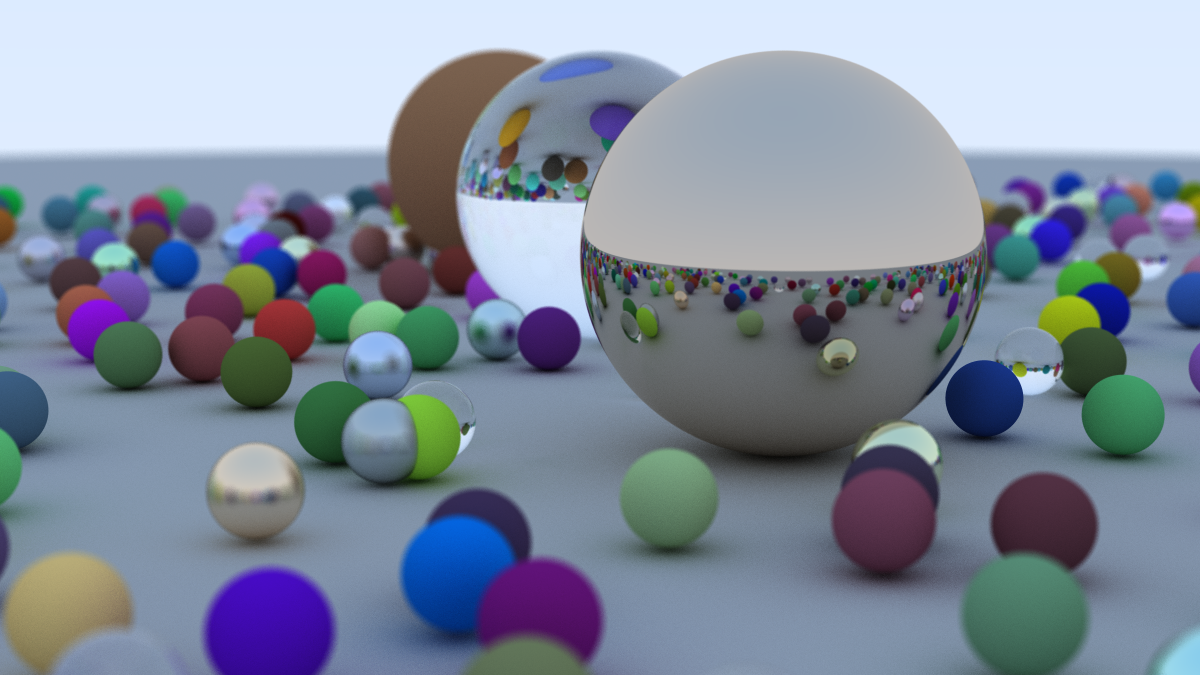
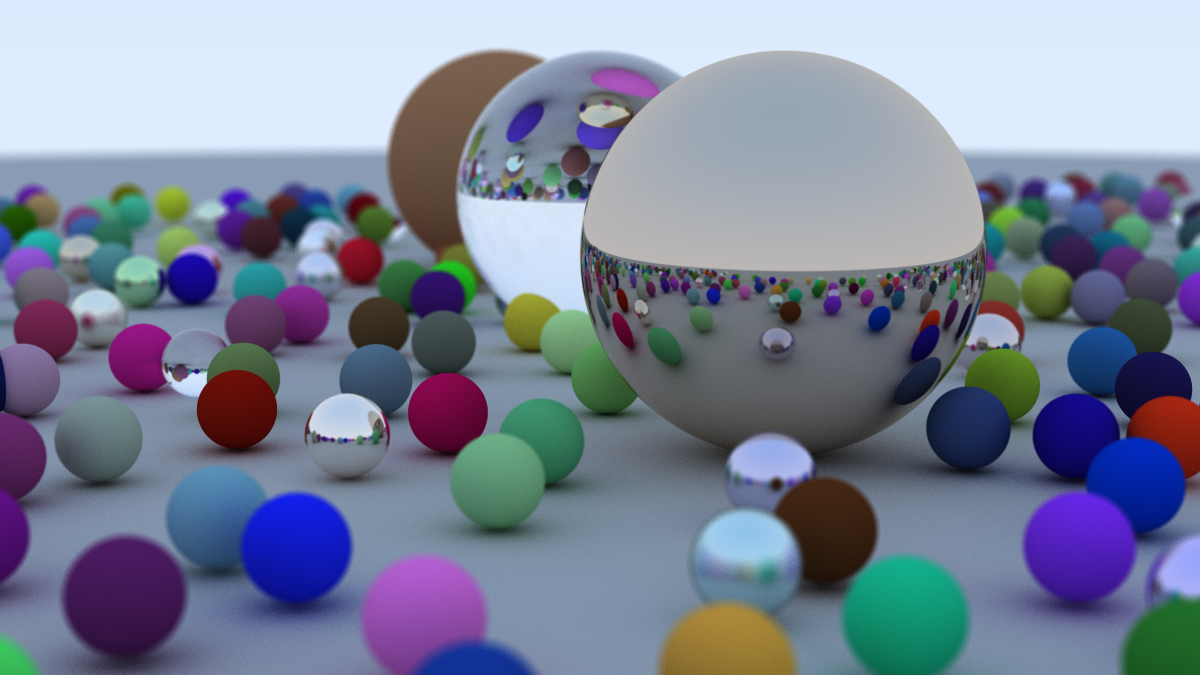
MapReduce

diff --git a/include/camera.hpp b/include/camera.hpp
@@ -2,6 +2,8 @@
 #define CAMERA_HPP
 
 #include <filesystem>
+#include <ranges>
+#include <thread>
 
 #include <fmt/format.h>
 #include <impl/cimg.hpp>
@@ -10,6 +12,7 @@
 
 #include <color.hpp>
 #include <hittable.hpp>
+#include <map_reduce.hpp>
 #include <material.hpp>
 #include <sphere.hpp>
 
@@ -68,16 +71,20 @@ class Camera {
 };
 
 void Camera::render(const CHittable auto &world) {
+    const auto numOfPixels = m_image.width() * m_image.height();
+    const auto range = std::ranges::views::iota(0, numOfPixels);
 
-    for (size_t j = 0; j < m_imageHeight; ++j) {
-        fmt::print("Scanlines remaining: {}.\n", m_imageHeight - j);
-
-        for (size_t i = 0; i < m_cameraProps.imageWidth; ++i) {
+    mapReduce(
+        range,
+        [&, this](const auto &pixelId) {
             auto pixelColor = Color{0, 0, 0};
+
+            auto idxW = pixelId / m_image.height();
+            auto idxH = pixelId % m_image.height();
 
             for (size_t sample = 0; sample < m_cameraProps.samplesPerPixel;
                  ++sample) {
-                auto ray = getRay(i, j);
+                auto ray = getRay(idxW, idxH);
                 pixelColor +=
                     convertColor(rayColor(ray, m_cameraProps.maxDepth, world),
                                  m_cameraProps.samplesPerPixel);
@@ -88,10 +95,11 @@ void Camera::render(const CHittable auto &world) {
                                        static_cast<uint8_t>(pixelColor.getY()),
                                        static_cast<uint8_t>(pixelColor.getZ())};
 
-            m_image.draw_point(static_cast<int>(i), static_cast<int>(j),
+            m_image.draw_point(static_cast<int>(idxW), static_cast<int>(idxH),
                                colorArray.data());
-        }
-    }
+            return true;
+        },
+        std::plus{}, std::thread::hardware_concurrency());
 
     // Windows doesn't play nicely with save_png and
     // std::filesystem, so we have to convert twice.

diff --git a/include/map_reduce.hpp b/include/map_reduce.hpp
@@ -1,0 +1,47 @@
+#ifndef MAP_REDUCE_HPP
+#define MAP_REDUCE_HPP
+
+#include <future>
+#include <ranges>
+#include <thread>
+#include <vector>
+
+template <typename F1, typename F2>
+auto mapReduce(std::ranges::input_range auto range, const F1 &funcCalc,
+               const F2 &funcReduce, const size_t threads)
+    -> decltype(funcCalc(*range.begin())) {
+
+    using returnType = decltype(funcCalc(*range.begin()));
+
+    const size_t threadDistance = range.size() / threads;
+    auto promises = std::vector<std::future<returnType>>{};
+
+    const auto chunkMapReduce =
+        [&funcCalc, &funcReduce](std::ranges::input_range auto chunkRange) {
+            auto result = funcCalc(*chunkRange.begin());
+            for (const auto &elem : chunkRange) {
+                result = funcReduce(result, funcCalc(elem));
+            }
+            return result;
+        };
+
+    auto threadStart = range.begin();
+
+    for (size_t threadId = 0u; threadId < threads - 1; ++threadId) {
+        promises.emplace_back(std::async(
+            std::launch::async, chunkMapReduce,
+            std::ranges::subrange(threadStart, threadStart + threadDistance)));
+        threadStart += threadDistance;
+    }
+    promises.emplace_back(
+        std::async(std::launch::async, chunkMapReduce,
+                   std::ranges::subrange(threadStart, range.end())));
+
+    returnType result(promises[0].get());
+    for (size_t i = 1; i != promises.size(); ++i) {
+        result = funcReduce(result, promises[i].get());
+    }
+    return result;
+}
+
+#endif

diff --git a/include/rtweekend.hpp b/include/rtweekend.hpp
@@ -21,7 +21,7 @@ inline auto randomDouble() -> double {
     static auto s_distribution =
         std::uniform_real_distribution<double>{0.0, 1.0};
     // NOLINTNEXTLINE(cert-msc32-c, cert-msc51-cpp)
-    static auto s_generator = std::mt19937{};
+    static auto s_generator = std::mt19937{2};
 
     return s_distribution(s_generator);
 };
